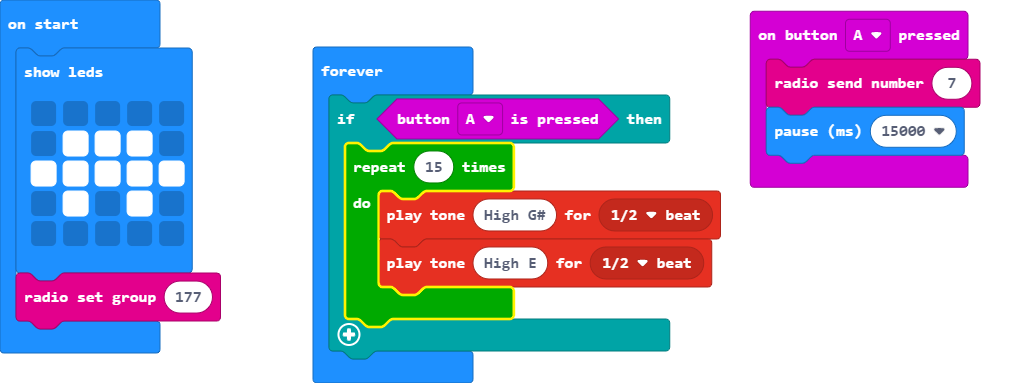
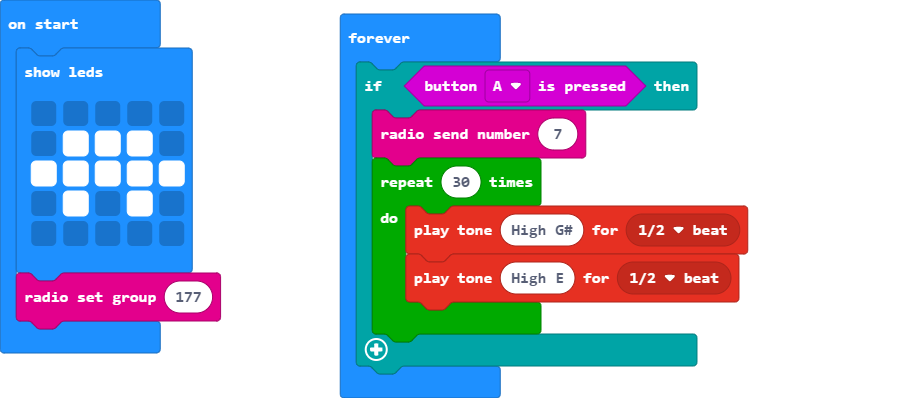
Update main.blocks, main.ts

diff --git a/main.ts b/main.ts
@@ -1,7 +1,3 @@
-input.onButtonPressed(Button.A, function () {
-    radio.sendNumber(7)
-    basic.pause(15000)
-})
 basic.showLeds(`
     . . . . .
     . # # # .
@@ -12,7 +8,8 @@ basic.showLeds(`
 radio.setGroup(177)
 basic.forever(function () {
     if (input.buttonIsPressed(Button.A)) {
-        for (let index = 0; index < 15; index++) {
+        radio.sendNumber(7)
+        for (let index = 0; index < 30; index++) {
             music.playTone(831, music.beat(BeatFraction.Half))
             music.playTone(659, music.beat(BeatFraction.Half))
         }
